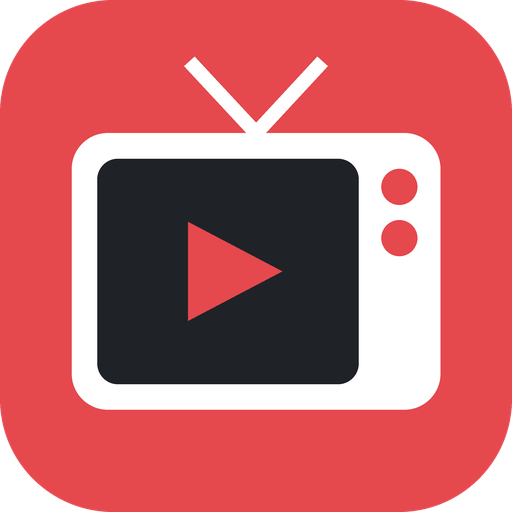
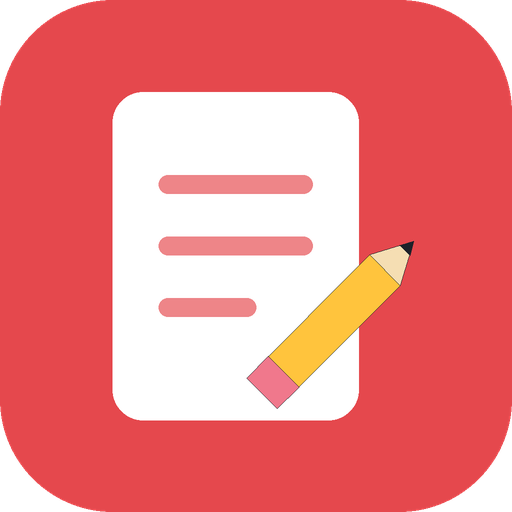
사이트 이름 '오늘의 글감'·새 아이콘, 그외키워드, 카테크를 자동차/오토바이/IT로 나누고 이슈 소식까지 수집
Claude-Session: https://claude.ai/code/session_01HuJ8zxhsHzxGk9w9qpjDQB

diff --git a/index.html b/index.html
@@ -4,15 +4,15 @@
 <meta charset="utf-8">
 <meta name="viewport" content="width=device-width, initial-scale=1, viewport-fit=cover">
 <meta name="theme-color" content="#e5484d">
-<meta name="description" content="방송 편성표 · 연예 실시간 소재 · 블로그 도구">
+<meta name="description" content="오늘의 글감 · 블로그 소재 모음">
 <link rel="manifest" href="manifest.webmanifest">
-<link rel="icon" href="icons/icon-192.png">
-<link rel="apple-touch-icon" href="icons/apple-touch-icon.png">
+<link rel="icon" href="icons/icon-192.png?v=2">
+<link rel="apple-touch-icon" href="icons/apple-touch-icon.png?v=2">
 <meta name="apple-mobile-web-app-capable" content="yes">
 <meta name="mobile-web-app-capable" content="yes">
 <meta name="apple-mobile-web-app-title" content="편성표">
 <meta name="apple-mobile-web-app-status-bar-style" content="default">
-<title>방송 편성표</title>
+<title>오늘의 글감</title>
 <style>
 :root{--bg:#f6f7f9;--card:#fff;--line:#e3e6eb;--text:#1b1e23;--sub:#6b7280;--accent:#e5484d;--live:#fff1f1;--hl:#2563eb;--soft:#f1f2f5;--ok:#15803d;--okbg:#e8f6ec;--warnbg:#fff8e6;--warn:#92400e;--blue:#2563eb;--bluebg:#eaf1ff}
 @media (prefers-color-scheme:dark){:root{--bg:#111316;--card:#1a1d21;--line:#2b2f35;--text:#eceef1;--sub:#9aa1ab;--live:#3a1d1f;--soft:#23272c;--ok:#4ade80;--okbg:#16301f;--warnbg:#2f2614;--warn:#fbbf24;--blue:#7aa7ff;--bluebg:#1b2840}}
@@ -289,14 +289,14 @@ details.help .note{margin:6px 0 0}
 </head>
 <body>
 <div class="top"><div class="topin">
-  <div class="brand"><h1>📺 방송 편성표</h1><span id="meta">불러오는 중…</span><button id="installBtn" hidden>📲 앱 설치</button></div>
+  <div class="brand"><h1>📝 오늘의 글감</h1><span id="meta">불러오는 중…</span><button id="installBtn" hidden>📲 앱 설치</button></div>
   <nav class="main" id="mainNav">
     <button data-c="star"><i>🎬</i><span>연예</span></button>
     <button data-c="econ"><i>💰</i><span>경제</span></button>
     <button data-c="living"><i>🍳</i><span>리빙</span></button>
     <button data-c="it"><i>🚗</i><span>카테크</span></button>
     <button data-c="health"><i>💊</i><span>건강</span></button>
-    <button data-c="etc"><i>📦</i><span>기타</span></button>
+    <button data-c="etc"><i>📦</i><span>그외키워드</span></button>
     <button data-c="tools"><i>🛠</i><span>도구</span></button>
   </nav>
 </div></div>
@@ -382,10 +382,10 @@ details.help .note{margin:6px 0 0}
 <!-- ===================== 쇼핑 ===================== -->
 <!-- ===================== 신차 ===================== -->
 <section class="view" id="v-cars">
-  <div class="subnav" id="carKind" style="grid-template-columns:repeat(3,1fr)"><button data-k="all">전체</button><button data-k="car">🚗 자동차</button><button data-k="moto">🏍 오토바이</button></div>
-  <div class="sec"><h2>🔥 지금 화제인 차 TOP 5</h2></div>
+  <div class="subnav" id="carKind" hidden style="grid-template-columns:repeat(3,1fr)"><button data-k="all">전체</button><button data-k="car">🚗 자동차</button><button data-k="moto">🏍 오토바이</button></div>
+  <div class="sec"><h2 id="carHotH">🔥 지금 화제인 차 TOP 5</h2></div>
   <div class="card" id="carHot"></div>
-  <div class="sec"><h2>📆 출시 달력</h2></div>
+  <div class="sec"><h2 id="carCalH">📆 출시 달력</h2></div>
   <div class="calgrid" id="carCal"></div>
   <div class="week" id="carDays" style="margin-top:14px;grid-template-columns:repeat(4,1fr)"></div>
   <div class="chips" id="carTags" style="margin-top:10px;flex-wrap:wrap"></div>
@@ -511,7 +511,7 @@ const CATS = {
   star:   {pages:[["ent","실시간"],["news","연예기사"],["tv","편성표"],["kw","키워드"]], kw:["영화·드라마","음악·공연"]},
   econ:   {pages:[["econ","경제·정책"],["kw","키워드"]], kw:["경제·재테크"]},
   living: {pages:[["trend","트렌드"],["mart","마트"],["deals","할인행사"],["recipe","레시피"],["kw","키워드"]], kw:["리빙·푸드","여행·맛집","육아·결혼","반려동물","원예·재배","상품리뷰·쇼핑"]},
-  it:     {pages:[["cars","자동차"],["itnews","IT 신제품"],["kw","키워드"]], kw:["자동차·IT","게임·만화"]},
+  it:     {pages:[["car","자동차"],["moto","오토바이"],["itnews","IT/컴퓨터"],["kw","키워드"]], kw:["자동차·IT","게임·만화"]},
   health: {pages:[["health","건강 뉴스"],["kw","키워드"]], kw:["건강·의학"]},
   etc:    {pages:[["kw","키워드"]], kw:["스포츠","패션·뷰티","지식·교육","취미·책"]},
   tools:  {pages:[["table","표 변환"],["image","이미지 합성"]]},
@@ -523,9 +523,9 @@ function show(v, s){
 }
 function go(c, p){
   if(c && !CATS[c]){            // 예전 주소(#topics/tv, #cars, #shop …)도 새 탭으로 연결
-    const map = {topics:{ent:"star",news:"star",tv:"star",kw:"star",econ:"econ"}, cars:"it", shop:"living", image:"tools", table:"tools", schedule:"star"};
+    const map = {topics:{ent:"star",news:"star",tv:"star",kw:"star",econ:"econ"}, cars:"it", car:"it", shop:"living", image:"tools", table:"tools", schedule:"star"};
     const m = map[c];
-    const pp = c === "topics" ? (p || "ent") : c === "shop" ? "trend" : c === "schedule" ? "tv" : c;
+    const pp = c === "topics" ? (p || "ent") : c === "shop" ? "trend" : c === "schedule" ? "tv" : c === "cars" ? "car" : c;
     return go(typeof m === "object" ? (m[pp] || "star") : (m || "star"), pp);
   }
   cat = c || cat; const C = CATS[cat];
@@ -543,7 +543,7 @@ function go(c, p){
     show("topics", page);
     if(page === "kw"){ kwGroup = "all"; loadKw(); }
     else ({ent: loadEnt, news: loadNews, econ: loadEcon, tv: renderWeek})[page]();
-  } else if(page === "cars"){ show("cars"); loadCars(); }
+  } else if(page === "car" || page === "moto"){ show("cars"); carKind = page; document.getElementById("carKind").hidden = true; loadCars(); }
   else if(page === "trend"){ show("shop"); shopSub = "trend"; loadShop(); }
   else if(page === "mart" || page === "deals"){
     show("shop"); shopSub = "mart";
@@ -559,7 +559,7 @@ document.querySelectorAll("#mainNav button").forEach(b => b.onclick = () => go(b
 
 /* ---------- 건강 · IT 신제품 · 방송 레시피 기사 ---------- */
 let fdKind = "health", fdDay = "live", fdTag = "all", fdRows = [];
-const FD = {health:{dir:"data/health", q:"제목 검색 (예: 독감, 영양제, 수면)"}, itnews:{dir:"data/it", q:"제목 검색 (예: 갤럭시, 아이폰, 로봇청소기)"},
+const FD = {health:{dir:"data/health", q:"제목 검색 (예: 독감, 영양제, 수면)"}, itnews:{dir:"data/it", q:"제목 검색 (예: 갤럭시, 아이폰, 노트북, 해킹)"},
             recipe:{file:"data/recipes.json", q:"제목 검색 (예: 편스토랑, 김치, 떡볶이)"}};
 async function loadFeed(kind){
   if(kind !== fdKind){ fdKind = kind; fdDay = "live"; fdTag = "all"; document.getElementById("fdQ").value = ""; }
@@ -971,7 +971,7 @@ document.getElementById("ecQ").addEventListener("input", showEcon);
 
 /* ---------- 신차 ---------- */
 let carKind = store.get("carKind", "all"), carDay = "live", carTag = "all", carRows = [], carSum = null;
-const CAR_ORDER = ["신차","현대","기아","제네시스","KGM·르노·GM","수입차","전기차","오토바이","리콜·결함","판매·순위","중고차·시세"];
+const CAR_ORDER = ["신차","업계 이슈","현대","기아","제네시스","KGM·르노·GM","수입차","전기차","오토바이","리콜·결함","판매·순위","중고차·시세"];
 document.querySelectorAll("#carKind button").forEach(b => b.onclick = () => { carKind = b.dataset.k; store.set("carKind", carKind); drawCars(); });
 async function loadCars(){
   const idx = await getJSON("data/cars/index.json", []);
@@ -989,6 +989,7 @@ async function loadCars(){
   carRows.sort((a,b) => b.t.localeCompare(a.t)); drawCars();
 }
 function drawCars(){
+  document.getElementById("carHotH").textContent = carKind === "moto" ? "🔥 지금 화제인 오토바이 TOP 5" : "🔥 지금 화제인 차 TOP 5";
   document.querySelectorAll("#carKind button").forEach(b => b.classList.toggle("on", b.dataset.k === carKind));
   const okKind = x => carKind === "all" || (carKind === "moto") === !!x.moto;
   const hot = (carSum?.hot || []).filter(okKind).slice(0, 5);

diff --git a/sw.js b/sw.js
@@ -1,7 +1,7 @@
 // 앱 설치·오프라인용 서비스 워커
 // - 화면(index.html, 아이콘): 인터넷 먼저, 안 되면 저장본
 // - 데이터(data/*.json): 항상 인터넷에서 최신, 끊기면 마지막 저장본
-const CACHE = "tvguide-v1";
+const CACHE = "tvguide-v2";
 const SHELL = ["./", "index.html", "manifest.webmanifest", "icons/icon-192.png", "icons/icon-512.png"];
 
 self.addEventListener("install", e => {

diff --git a/scraper/cars.py b/scraper/cars.py
@@ -24,7 +24,8 @@ TOPICS = [("신차", ["신차 출시", "신차 사전계약", "출시 예정 신
           ("현대", ["현대차 신차", "현대자동차 출시"]), ("기아", ["기아 신차", "기아 출시"]),
           ("제네시스", ["제네시스 신차"]), ("KGM·르노·GM", ["KGM 신차", "르노코리아 신차", "쉐보레 신차"]),
           ("수입차", ["수입차 신차 출시", "BMW 신형", "벤츠 신형", "테슬라 국내 출시"]),
-          ("전기차", ["전기차 신차", "전기차 보조금"]), ("오토바이", ["오토바이 신모델", "바이크 신차 출시", "스쿠터 출시"]),
+          ("전기차", ["전기차 신차", "전기차 보조금"]), ("오토바이", ["오토바이 신모델", "바이크 신차 출시", "스쿠터 출시", "오토바이", "이륜차", "바이크 업계", "배달 오토바이", "할리데이비슨", "혼다 바이크"]),
+          ("업계 이슈", ["자동차 업계", "완성차 업계 이슈", "전기차 화재", "자율주행", "자동차 관세"]),
           ("리콜·결함", ["자동차 리콜", "차량 결함"]), ("판매·순위", ["자동차 판매 순위", "신차 판매량"]),
           ("중고차·시세", ["중고차 시세"])]
 NOT_CAR = re.compile(r"주가|증시|목표주가|배당|채용|노조|파업|임단협|부동산|분양")

diff --git a/scraper/topicnews.py b/scraper/topicnews.py
@@ -22,7 +22,10 @@ SETS = {
            ("가전", ["가전 신제품 출시", "로봇청소기 신제품"]),
            ("AI·앱", ["AI 서비스 출시", "챗GPT 업데이트", "앱 업데이트 기능"]),
            ("게임", ["신작 게임 출시"]),
-           ("통신·요금", ["요금제 출시", "통신사 혜택"])],
+           ("통신·요금", ["요금제 출시", "통신사 혜택", "통신 장애"]),
+           ("보안·개인정보", ["해킹 개인정보 유출", "보안 취약점"]),
+           ("PC·부품", ["그래픽카드", "PC 부품 가격", "윈도우 업데이트"]),
+           ("IT 업계", ["IT 업계 이슈", "반도체 업계", "네이버 카카오 서비스", "구글 애플 발표"])],
 }
 NOISE = re.compile(r"주가|목표주가|증시|배당|채용|인사\]|부고|\[포토\]")
 
